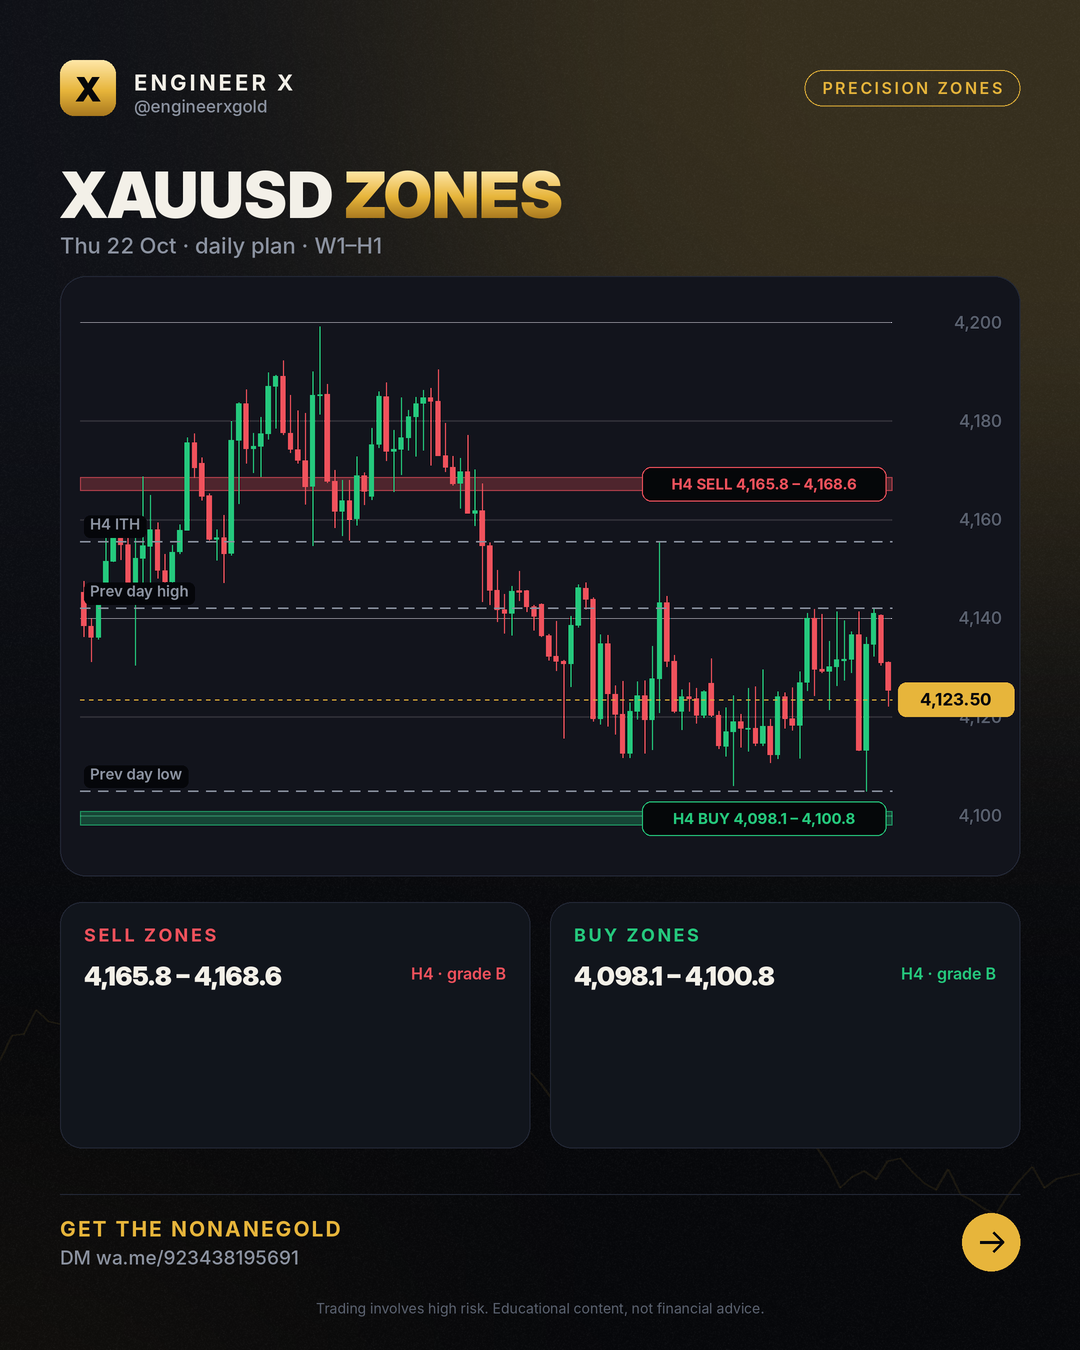
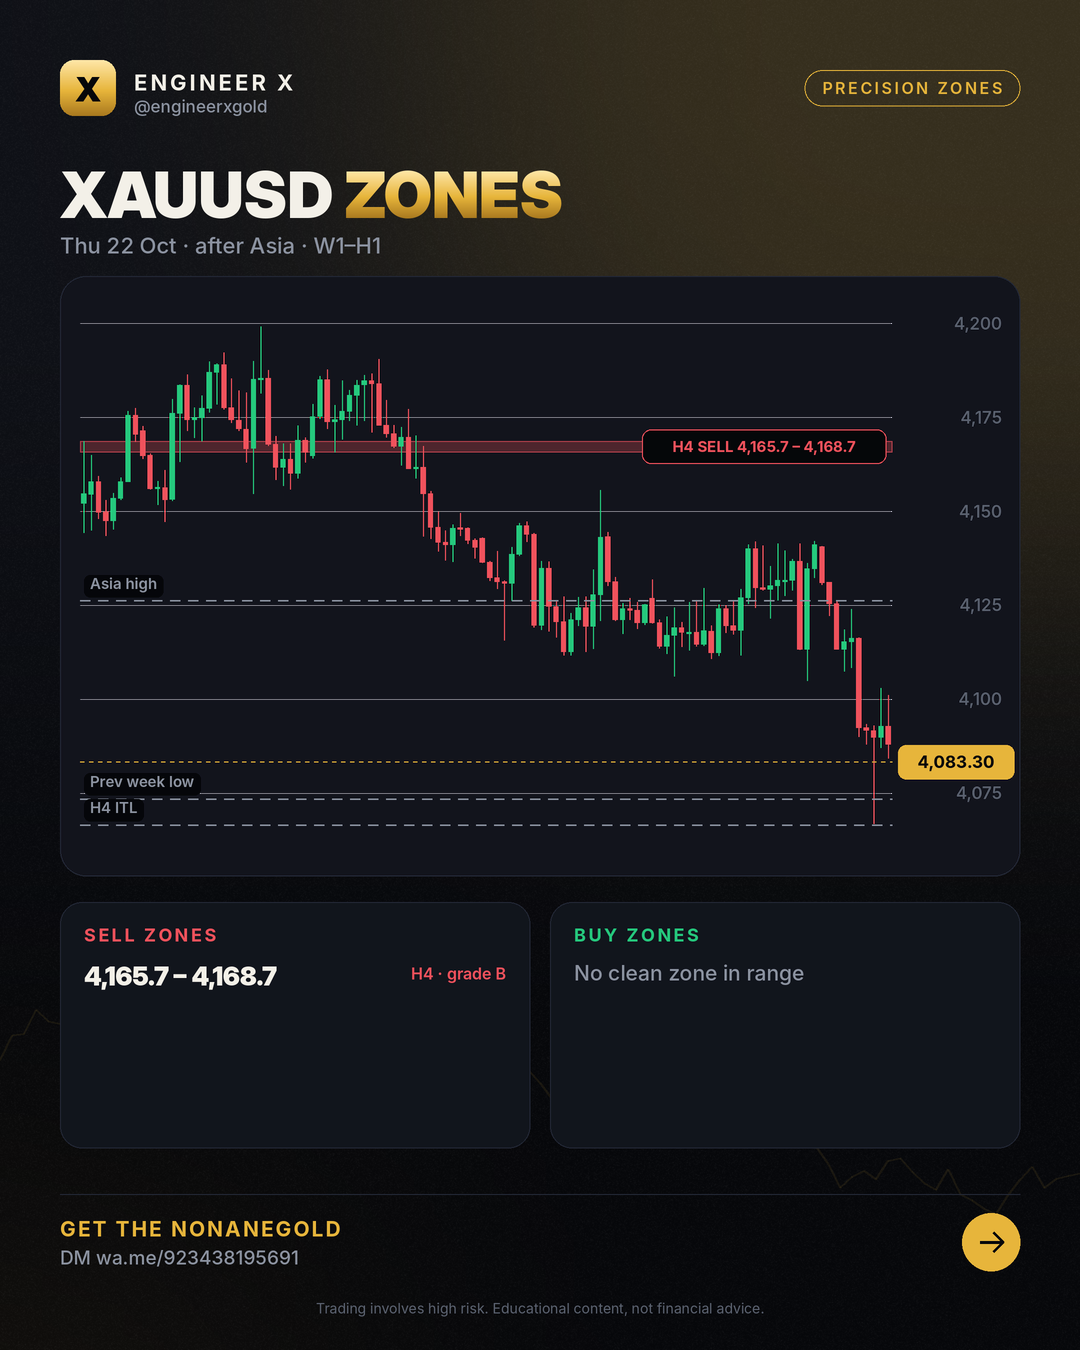
zones 2026-10-22 Thu 22 Oct · after Asia · W1–H1

diff --git a/zones/2026-10-22/index.html b/zones/2026-10-22/index.html
@@ -4,7 +4,7 @@
 <meta charset="utf-8">
 <meta name="viewport" content="width=device-width,initial-scale=1">
 <title>Xauusd Analysis – 22 Oct 2026 (W1–H1)</title>
-<meta name="description" content="XAUUSD buy and sell zones for 2026-10-22: tested W1, D1, H4 and H1 zones with invalidation levels, updated after the Asian, London and New York sessions. Price 4,123.50.">
+<meta name="description" content="XAUUSD buy and sell zones for 2026-10-22: tested W1, D1, H4 and H1 zones with invalidation levels, updated after the Asian, London and New York sessions. Price 4,083.30.">
 <meta name="robots" content="index,follow,max-image-preview:large,max-snippet:-1,max-video-preview:-1">
 <meta name="author" content="Engr. M Ahmad Mehmood">
 <link rel="canonical" href="https://engineerxgold.github.io/zones/2026-10-22/">
@@ -12,7 +12,7 @@
 <link rel="apple-touch-icon" href="../../img/logo.png">
 <meta property="og:site_name" content="Engineer X">
 <meta property="og:title" content="Xauusd Analysis – 22 Oct 2026 (W1–H1)">
-<meta property="og:description" content="XAUUSD buy and sell zones for 2026-10-22: tested W1, D1, H4 and H1 zones with invalidation levels, updated after the Asian, London and New York sessions. Price 4,123.50.">
+<meta property="og:description" content="XAUUSD buy and sell zones for 2026-10-22: tested W1, D1, H4 and H1 zones with invalidation levels, updated after the Asian, London and New York sessions. Price 4,083.30.">
 <meta property="og:type" content="article">
 <meta property="og:url" content="https://engineerxgold.github.io/zones/2026-10-22/">
 <meta property="og:image" content="https://engineerxgold.github.io/zones/img/2026-10-22.png">
@@ -22,7 +22,7 @@
 <meta property="og:locale" content="en_US">
 <meta name="twitter:card" content="summary_large_image">
 <meta name="twitter:title" content="Xauusd Analysis – 22 Oct 2026 (W1–H1)">
-<meta name="twitter:description" content="XAUUSD buy and sell zones for 2026-10-22: tested W1, D1, H4 and H1 zones with invalidation levels, updated after the Asian, London and New York sessions. Price 4,123.50.">
+<meta name="twitter:description" content="XAUUSD buy and sell zones for 2026-10-22: tested W1, D1, H4 and H1 zones with invalidation levels, updated after the Asian, London and New York sessions. Price 4,083.30.">
 <meta name="twitter:image" content="https://engineerxgold.github.io/zones/img/2026-10-22.png">
 <meta name="twitter:image:alt" content="Xauusd Analysis – 22 Oct 2026 (W1–H1)">
 
@@ -32,7 +32,7 @@
 <link rel="preconnect" href="https://fonts.googleapis.com">
 <link rel="preconnect" href="https://fonts.gstatic.com" crossorigin>
 <link href="https://fonts.googleapis.com/css2?family=Inter:wght@400;500;600;800;900&display=swap" rel="stylesheet">
-<script type="application/ld+json">{"@context": "https://schema.org", "@type": "Organization", "@id": "https://engineerxgold.github.io/#organization", "name": "Engineer X", "url": "https://engineerxgold.github.io/", "logo": {"@type": "ImageObject", "url": "https://engineerxgold.github.io/img/logo.png", "width": 512, "height": 512}, "sameAs": ["https://t.me/engineerxgold"]}</script><script type="application/ld+json">{"@context": "https://schema.org", "@type": "Article", "headline": "Xauusd Analysis – 22 Oct 2026 (W1–H1)", "datePublished": "2026-10-22T08:00:00+05:00", "dateModified": "2026-10-22T05:04:03+05:00", "author": {"@type": "Person", "@id": "https://engineerxgold.github.io/about/#author", "name": "Engr. M Ahmad Mehmood", "url": "https://engineerxgold.github.io/about/", "jobTitle": "MQL5 Expert Advisor developer and gold market analyst", "worksFor": {"@id": "https://engineerxgold.github.io/#organization"}}, "publisher": {"@id": "https://engineerxgold.github.io/#organization"}, "image": "https://engineerxgold.github.io/zones/img/2026-10-22.png", "mainEntityOfPage": "https://engineerxgold.github.io/zones/2026-10-22/"}</script>
+<script type="application/ld+json">{"@context": "https://schema.org", "@type": "Organization", "@id": "https://engineerxgold.github.io/#organization", "name": "Engineer X", "url": "https://engineerxgold.github.io/", "logo": {"@type": "ImageObject", "url": "https://engineerxgold.github.io/img/logo.png", "width": 512, "height": 512}, "sameAs": ["https://t.me/engineerxgold"]}</script><script type="application/ld+json">{"@context": "https://schema.org", "@type": "Article", "headline": "Xauusd Analysis – 22 Oct 2026 (W1–H1)", "datePublished": "2026-10-22T08:00:00+05:00", "dateModified": "2026-10-22T13:14:17+05:00", "author": {"@type": "Person", "@id": "https://engineerxgold.github.io/about/#author", "name": "Engr. M Ahmad Mehmood", "url": "https://engineerxgold.github.io/about/", "jobTitle": "MQL5 Expert Advisor developer and gold market analyst", "worksFor": {"@id": "https://engineerxgold.github.io/#organization"}}, "publisher": {"@id": "https://engineerxgold.github.io/#organization"}, "image": "https://engineerxgold.github.io/zones/img/2026-10-22.png", "mainEntityOfPage": "https://engineerxgold.github.io/zones/2026-10-22/"}</script>
 
 <style>
 :root{--gold:#E7B53B;--gold-hi:#FFE7A8;--bg:#07080B;--bg2:#0E1016;--panel:#12151D;--line:#232836;--green:#25C97D;--red:#F0525C;--text:#F3F0E8;--muted:#8C93A1}
@@ -101,7 +101,7 @@ footer .fl a{color:var(--muted);margin-right:16px}
 <div class="wrap">
 <nav><a class="logo" href="../../"><b>X</b>Engineer X</a>
 <div class="links"><a href="../../zones/">Daily Zones</a><a href="../../blog/">Learn</a><a href="../../ea/">Gold EA</a><a href="../../about/">About</a><a class="cta" href="https://wa.me/923438195691">Get the EA</a></div></nav>
-<article><p class="crumbs"><a href="../../">Home</a> › <a href="../">Zones</a> › 2026-10-22</p><h1>Xauusd Analysis – 22 Oct 2026 (W1–H1)</h1><p class="byline">Thu 22 Oct · daily plan · W1–H1 · by Engr. M Ahmad Mehmood</p><img src="../img/2026-10-22.png" alt="XAUUSD zone map 2026-10-22" width="1080" height="1350" loading="eager"><h2>Zones</h2><div style="overflow-x:auto"><table style="width:100%;border-collapse:collapse;font-size:15px"><tr><th align=left>Zone</th><th align=left>Price band</th><th>Grade</th><th align=left>Invalid</th><th align=left>Why</th></tr><tr><td>H4 sell</td><td><b>4,165.81 – 4,168.57</b></td><td>B</td><td>above 4,180.99</td><td>OTE 0.705 of the H4 leg 4190.42 → 4111.68 (S35; 0.62–0.79 = 4160.50–4173.88)</td></tr><tr><td>H4 buy</td><td><b>4,098.07 – 4,100.83</b></td><td>B</td><td>below 4,085.66</td><td>OTE 0.705 of the H4 leg 4073.37 → 4161.78 (S35; 0.62–0.79 = 4106.97–4091.94)</td></tr></table></div><h2>How to read this map</h2><p>Bands are where price is expected to react; they are not entries. Trading beyond the invalidation price ends the zone; each zone counts once (first touch). Highs and lows listed as liquidity are targets: on 10 years of gold price ran through them more often than through random levels.</p><div class="ctabox"><h3>🤖 Trade the zones with the NonaneGold</h3><p>Free signals group access + setup help Message us and we will help you set it up.</p><div class="btns"><a class="btn gold" href="https://wa.me/923438195691">Get the EA on Telegram</a><a class="btn ghost" href="../../ea/">About the EA</a></div></div></article>
+<article><p class="crumbs"><a href="../../">Home</a> › <a href="../">Zones</a> › 2026-10-22</p><h1>Xauusd Analysis – 22 Oct 2026 (W1–H1)</h1><p class="byline">Thu 22 Oct · after Asia · W1–H1 · by Engr. M Ahmad Mehmood</p><img src="../img/2026-10-22.png" alt="XAUUSD zone map 2026-10-22" width="1080" height="1350" loading="eager"><h2>Zones</h2><div style="overflow-x:auto"><table style="width:100%;border-collapse:collapse;font-size:15px"><tr><th align=left>Zone</th><th align=left>Price band</th><th>Grade</th><th align=left>Invalid</th><th align=left>Why</th></tr><tr><td>H4 sell</td><td><b>4,165.69 – 4,168.69</b></td><td>B</td><td>above 4,182.19</td><td>OTE 0.705 of the H4 leg 4190.42 → 4111.68 (S35; 0.62–0.79 = 4160.50–4173.88)</td></tr></table></div><h2>How to read this map</h2><p>Bands are where price is expected to react; they are not entries. Trading beyond the invalidation price ends the zone; each zone counts once (first touch). Highs and lows listed as liquidity are targets: on 10 years of gold price ran through them more often than through random levels.</p><div class="ctabox"><h3>🤖 Trade the zones with the NonaneGold</h3><p>Free signals group access + setup help Message us and we will help you set it up.</p><div class="btns"><a class="btn gold" href="https://wa.me/923438195691">Get the EA on Telegram</a><a class="btn ghost" href="../../ea/">About the EA</a></div></div></article>
 <footer>
 <div class="warn"><b>Risk warning:</b> Trading gold, forex and CFDs carries a high risk of losing money and is not suitable for everyone. Past results do not guarantee future results. Everything on this site is educational and not financial advice. We are an introducing partner of our broker and may earn a commission on accounts opened through our link.</div>
 <p class="fl" style="margin-top:18px"><a href="../../about/">About &amp; methodology</a><a href="../../privacy.html">Privacy</a><a href="../../terms.html">Terms &amp; risk disclosure</a><a href="../../feed.xml">RSS</a><a href="https://t.me/engineerxgold">Telegram</a></p>

diff --git a/zones/index.html b/zones/index.html
@@ -4,7 +4,7 @@
 <meta charset="utf-8">
 <meta name="viewport" content="width=device-width,initial-scale=1">
 <title>XAUUSD Zones Today – Buy &amp; Sell Zones (H4, H1) | Engineer X</title>
-<meta name="description" content="XAUUSD buy and sell zones for 2026-10-22: tested W1, D1, H4 and H1 zones with invalidation levels, updated after the Asian, London and New York sessions. Price 4,123.50.">
+<meta name="description" content="XAUUSD buy and sell zones for 2026-10-22: tested W1, D1, H4 and H1 zones with invalidation levels, updated after the Asian, London and New York sessions. Price 4,083.30.">
 <meta name="robots" content="index,follow,max-image-preview:large,max-snippet:-1,max-video-preview:-1">
 <meta name="author" content="Engr. M Ahmad Mehmood">
 <link rel="canonical" href="https://engineerxgold.github.io/zones/">
@@ -12,7 +12,7 @@
 <link rel="apple-touch-icon" href="../img/logo.png">
 <meta property="og:site_name" content="Engineer X">
 <meta property="og:title" content="XAUUSD Zones Today – Buy &amp; Sell Zones (H4, H1) | Engineer X">
-<meta property="og:description" content="XAUUSD buy and sell zones for 2026-10-22: tested W1, D1, H4 and H1 zones with invalidation levels, updated after the Asian, London and New York sessions. Price 4,123.50.">
+<meta property="og:description" content="XAUUSD buy and sell zones for 2026-10-22: tested W1, D1, H4 and H1 zones with invalidation levels, updated after the Asian, London and New York sessions. Price 4,083.30.">
 <meta property="og:type" content="website">
 <meta property="og:url" content="https://engineerxgold.github.io/zones/">
 <meta property="og:image" content="https://engineerxgold.github.io/zones/img/2026-10-22.png">
@@ -22,7 +22,7 @@
 <meta property="og:locale" content="en_US">
 <meta name="twitter:card" content="summary_large_image">
 <meta name="twitter:title" content="XAUUSD Zones Today – Buy &amp; Sell Zones (H4, H1) | Engineer X">
-<meta name="twitter:description" content="XAUUSD buy and sell zones for 2026-10-22: tested W1, D1, H4 and H1 zones with invalidation levels, updated after the Asian, London and New York sessions. Price 4,123.50.">
+<meta name="twitter:description" content="XAUUSD buy and sell zones for 2026-10-22: tested W1, D1, H4 and H1 zones with invalidation levels, updated after the Asian, London and New York sessions. Price 4,083.30.">
 <meta name="twitter:image" content="https://engineerxgold.github.io/zones/img/2026-10-22.png">
 <meta name="twitter:image:alt" content="XAUUSD Zones Today – Buy &amp; Sell Zones (H4, H1) | Engineer X">
 
@@ -101,7 +101,7 @@ footer .fl a{color:var(--muted);margin-right:16px}
 <div class="wrap">
 <nav><a class="logo" href="../"><b>X</b>Engineer X</a>
 <div class="links"><a href="../zones/">Daily Zones</a><a href="../blog/">Learn</a><a href="../ea/">Gold EA</a><a href="../about/">About</a><a class="cta" href="https://wa.me/923438195691">Get the EA</a></div></nav>
-<section class="hero"><span class="chip">Updated Thu 22 Oct · daily plan · W1–H1</span><h1>XAUUSD <span class="gold">precision zones</span></h1><p>XAUUSD buy and sell zones for 2026-10-22: tested W1, D1, H4 and H1 zones with invalidation levels, updated after the Asian, London and New York sessions. Price 4,123.50.</p></section><img src="img/2026-10-22.png" alt="Latest XAUUSD zone map" width="1080" height="1350"><section><h2>Current zones</h2><div style="overflow-x:auto"><table style="width:100%;border-collapse:collapse;font-size:15px"><tr><th align=left>Zone</th><th align=left>Price band</th><th>Grade</th><th align=left>Invalid</th><th align=left>Why</th></tr><tr><td>H4 sell</td><td><b>4,165.81 – 4,168.57</b></td><td>B</td><td>above 4,180.99</td><td>OTE 0.705 of the H4 leg 4190.42 → 4111.68 (S35; 0.62–0.79 = 4160.50–4173.88)</td></tr><tr><td>H4 buy</td><td><b>4,098.07 – 4,100.83</b></td><td>B</td><td>below 4,085.66</td><td>OTE 0.705 of the H4 leg 4073.37 → 4161.78 (S35; 0.62–0.79 = 4106.97–4091.94)</td></tr></table></div></section><section><h2>Honest scorecard</h2><div class="grid"><div class="card"><div class="n">141</div><p>zones published (30 days)</p></div><div class="card"><div class="n">59</div><p>held (moved 1 hourly ATR away)</p></div><div class="card"><div class="n">6</div><p>broke (traded beyond the invalidation)</p></div><div class="card"><div class="n">91%</div><p>hold rate of decided zones</p></div></div></section><div class="ctabox"><h3>🤖 Trade the zones with the NonaneGold</h3><p>Free signals group access + setup help Message us and we will help you set it up.</p><div class="btns"><a class="btn gold" href="https://wa.me/923438195691">Get the EA on Telegram</a><a class="btn ghost" href="../ea/">About the EA</a></div></div><section><h2>Archive</h2><div class="grid posts"><a class="card" href="2026-10-22/"><span class="date">2026-10-22</span><h3>XAUUSD zones 2026-10-22</h3></a><a class="card" href="2026-10-21/"><span class="date">2026-10-21</span><h3>XAUUSD zones 2026-10-21</h3></a><a class="card" href="2026-10-20/"><span class="date">2026-10-20</span><h3>XAUUSD zones 2026-10-20</h3></a><a class="card" href="2026-10-19/"><span class="date">2026-10-19</span><h3>XAUUSD zones 2026-10-19</h3></a><a class="card" href="2026-10-16/"><span class="date">2026-10-16</span><h3>XAUUSD zones 2026-10-16</h3></a><a class="card" href="2026-10-15/"><span class="date">2026-10-15</span><h3>XAUUSD zones 2026-10-15</h3></a><a class="card" href="2026-10-14/"><span class="date">2026-10-14</span><h3>XAUUSD zones 2026-10-14</h3></a><a class="card" href="2026-10-13/"><span class="date">2026-10-13</span><h3>XAUUSD zones 2026-10-13</h3></a></div></section>
+<section class="hero"><span class="chip">Updated Thu 22 Oct · after Asia · W1–H1</span><h1>XAUUSD <span class="gold">precision zones</span></h1><p>XAUUSD buy and sell zones for 2026-10-22: tested W1, D1, H4 and H1 zones with invalidation levels, updated after the Asian, London and New York sessions. Price 4,083.30.</p></section><img src="img/2026-10-22.png" alt="Latest XAUUSD zone map" width="1080" height="1350"><section><h2>Current zones</h2><div style="overflow-x:auto"><table style="width:100%;border-collapse:collapse;font-size:15px"><tr><th align=left>Zone</th><th align=left>Price band</th><th>Grade</th><th align=left>Invalid</th><th align=left>Why</th></tr><tr><td>H4 sell</td><td><b>4,165.69 – 4,168.69</b></td><td>B</td><td>above 4,182.19</td><td>OTE 0.705 of the H4 leg 4190.42 → 4111.68 (S35; 0.62–0.79 = 4160.50–4173.88)</td></tr></table></div></section><section><h2>Honest scorecard</h2><div class="grid"><div class="card"><div class="n">142</div><p>zones published (30 days)</p></div><div class="card"><div class="n">71</div><p>held (moved 1 hourly ATR away)</p></div><div class="card"><div class="n">6</div><p>broke (traded beyond the invalidation)</p></div><div class="card"><div class="n">92%</div><p>hold rate of decided zones</p></div></div></section><div class="ctabox"><h3>🤖 Trade the zones with the NonaneGold</h3><p>Free signals group access + setup help Message us and we will help you set it up.</p><div class="btns"><a class="btn gold" href="https://wa.me/923438195691">Get the EA on Telegram</a><a class="btn ghost" href="../ea/">About the EA</a></div></div><section><h2>Archive</h2><div class="grid posts"><a class="card" href="2026-10-22/"><span class="date">2026-10-22</span><h3>XAUUSD zones 2026-10-22</h3></a><a class="card" href="2026-10-21/"><span class="date">2026-10-21</span><h3>XAUUSD zones 2026-10-21</h3></a><a class="card" href="2026-10-20/"><span class="date">2026-10-20</span><h3>XAUUSD zones 2026-10-20</h3></a><a class="card" href="2026-10-19/"><span class="date">2026-10-19</span><h3>XAUUSD zones 2026-10-19</h3></a><a class="card" href="2026-10-16/"><span class="date">2026-10-16</span><h3>XAUUSD zones 2026-10-16</h3></a><a class="card" href="2026-10-15/"><span class="date">2026-10-15</span><h3>XAUUSD zones 2026-10-15</h3></a><a class="card" href="2026-10-14/"><span class="date">2026-10-14</span><h3>XAUUSD zones 2026-10-14</h3></a><a class="card" href="2026-10-13/"><span class="date">2026-10-13</span><h3>XAUUSD zones 2026-10-13</h3></a></div></section>
 <footer>
 <div class="warn"><b>Risk warning:</b> Trading gold, forex and CFDs carries a high risk of losing money and is not suitable for everyone. Past results do not guarantee future results. Everything on this site is educational and not financial advice. We are an introducing partner of our broker and may earn a commission on accounts opened through our link.</div>
 <p class="fl" style="margin-top:18px"><a href="../about/">About &amp; methodology</a><a href="../privacy.html">Privacy</a><a href="../terms.html">Terms &amp; risk disclosure</a><a href="../feed.xml">RSS</a><a href="https://t.me/engineerxgold">Telegram</a></p>

diff --git a/index.html b/index.html
@@ -101,7 +101,7 @@ footer .fl a{color:var(--muted);margin-right:16px}
 <div class="wrap">
 <nav><a class="logo" href="./"><b>X</b>Engineer X</a>
 <div class="links"><a href="./zones/">Daily Zones</a><a href="./blog/">Learn</a><a href="./ea/">Gold EA</a><a href="./about/">About</a><a class="cta" href="https://wa.me/923438195691">Get the EA</a></div></nav>
-<section class="hero"><span class="chip">XAUUSD · W1–H1 · every session</span><h1>Gold <span class="gold">precision zones</span>, updated after every session</h1><p>Tested buy and sell zones with clear invalidation, a scorecard of every result, and the NonaneGold for traders who want it automated.</p><div class="btns"><a class="btn gold" href="zones/">See today's zones</a><a class="btn ghost" href="https://wa.me/923438195691">Get the EA</a></div></section><section><h2>Latest map Thu 22 Oct · daily plan · W1–H1</h2><img src="zones/img/2026-10-22.png" alt="Latest XAUUSD zones" width="1080" height="1350"></section><div class="ctabox"><h3>🤖 Trade the zones with the NonaneGold</h3><p>Free signals group access + setup help Message us and we will help you set it up.</p><div class="btns"><a class="btn gold" href="https://wa.me/923438195691">Get the EA on Telegram</a><a class="btn ghost" href="ea/">About the EA</a></div></div><section><h2>Learn</h2><div class="grid posts"><a class="card" href="blog/gold-forecast-critical-h4-bearish-zones-liquidity/"><span class="date">2026-10-21</span><h3>Gold Forecast: Critical H4 Bearish Zones &amp; Liquidity</h3></a><a class="card" href="blog/gold-supply-and-demand-zones-h4-w1-map-analysis/"><span class="date">2026-10-20</span><h3>Gold Supply and Demand Zones: H4 &amp; W1 Map Analysis</h3></a><a class="card" href="blog/gold-trading-reading-h4-trend-liquidity-zones/"><span class="date">2026-10-19</span><h3>Gold Trading: Reading H4 Trend &amp; Liquidity Zones</h3></a><a class="card" href="blog/gold-support-resistance-live-technical-map-zones/"><span class="date">2026-10-18</span><h3>Gold Support Resistance: Live Technical Map &amp; Zones</h3></a><a class="card" href="blog/gold-supply-and-demand-zones-live-trading-map-guide/"><span class="date">2026-10-17</span><h3>Gold Supply and Demand Zones: Live Trading Map &amp; Guide</h3></a><a class="card" href="blog/gold-trading-h4-trend-and-live-market-zones-map/"><span class="date">2026-10-16</span><h3>Gold Trading: H4 Trend and Live Market Zones Map</h3></a></div></section><section><h2>FAQ</h2><details><summary>What is a precision zone?</summary><p>A point of interest from a trading book (OTE 0.705, balanced price range, weekly close level, daily order block) that held better than random levels on 10 years of gold. Each zone has an invalidation price.</p></details><details><summary>How often are the zones updated?</summary><p>A daily plan at the Asian open, then after the Asian, London and New York sessions.</p></details><details><summary>Are these trade signals?</summary><p>No. Zones are areas to watch. Wait for your own confirmation and manage risk.</p></details><details><summary>How do I get the Gold EA?</summary><p>Message us on Telegram or WhatsApp; we answer and help with the setup.</p></details></section>
+<section class="hero"><span class="chip">XAUUSD · W1–H1 · every session</span><h1>Gold <span class="gold">precision zones</span>, updated after every session</h1><p>Tested buy and sell zones with clear invalidation, a scorecard of every result, and the NonaneGold for traders who want it automated.</p><div class="btns"><a class="btn gold" href="zones/">See today's zones</a><a class="btn ghost" href="https://wa.me/923438195691">Get the EA</a></div></section><section><h2>Latest map Thu 22 Oct · after Asia · W1–H1</h2><img src="zones/img/2026-10-22.png" alt="Latest XAUUSD zones" width="1080" height="1350"></section><div class="ctabox"><h3>🤖 Trade the zones with the NonaneGold</h3><p>Free signals group access + setup help Message us and we will help you set it up.</p><div class="btns"><a class="btn gold" href="https://wa.me/923438195691">Get the EA on Telegram</a><a class="btn ghost" href="ea/">About the EA</a></div></div><section><h2>Learn</h2><div class="grid posts"><a class="card" href="blog/gold-forecast-critical-h4-bearish-zones-liquidity/"><span class="date">2026-10-21</span><h3>Gold Forecast: Critical H4 Bearish Zones &amp; Liquidity</h3></a><a class="card" href="blog/gold-supply-and-demand-zones-h4-w1-map-analysis/"><span class="date">2026-10-20</span><h3>Gold Supply and Demand Zones: H4 &amp; W1 Map Analysis</h3></a><a class="card" href="blog/gold-trading-reading-h4-trend-liquidity-zones/"><span class="date">2026-10-19</span><h3>Gold Trading: Reading H4 Trend &amp; Liquidity Zones</h3></a><a class="card" href="blog/gold-support-resistance-live-technical-map-zones/"><span class="date">2026-10-18</span><h3>Gold Support Resistance: Live Technical Map &amp; Zones</h3></a><a class="card" href="blog/gold-supply-and-demand-zones-live-trading-map-guide/"><span class="date">2026-10-17</span><h3>Gold Supply and Demand Zones: Live Trading Map &amp; Guide</h3></a><a class="card" href="blog/gold-trading-h4-trend-and-live-market-zones-map/"><span class="date">2026-10-16</span><h3>Gold Trading: H4 Trend and Live Market Zones Map</h3></a></div></section><section><h2>FAQ</h2><details><summary>What is a precision zone?</summary><p>A point of interest from a trading book (OTE 0.705, balanced price range, weekly close level, daily order block) that held better than random levels on 10 years of gold. Each zone has an invalidation price.</p></details><details><summary>How often are the zones updated?</summary><p>A daily plan at the Asian open, then after the Asian, London and New York sessions.</p></details><details><summary>Are these trade signals?</summary><p>No. Zones are areas to watch. Wait for your own confirmation and manage risk.</p></details><details><summary>How do I get the Gold EA?</summary><p>Message us on Telegram or WhatsApp; we answer and help with the setup.</p></details></section>
 <footer>
 <div class="warn"><b>Risk warning:</b> Trading gold, forex and CFDs carries a high risk of losing money and is not suitable for everyone. Past results do not guarantee future results. Everything on this site is educational and not financial advice. We are an introducing partner of our broker and may earn a commission on accounts opened through our link.</div>
 <p class="fl" style="margin-top:18px"><a href="./about/">About &amp; methodology</a><a href="./privacy.html">Privacy</a><a href="./terms.html">Terms &amp; risk disclosure</a><a href="./feed.xml">RSS</a><a href="https://t.me/engineerxgold">Telegram</a></p>
